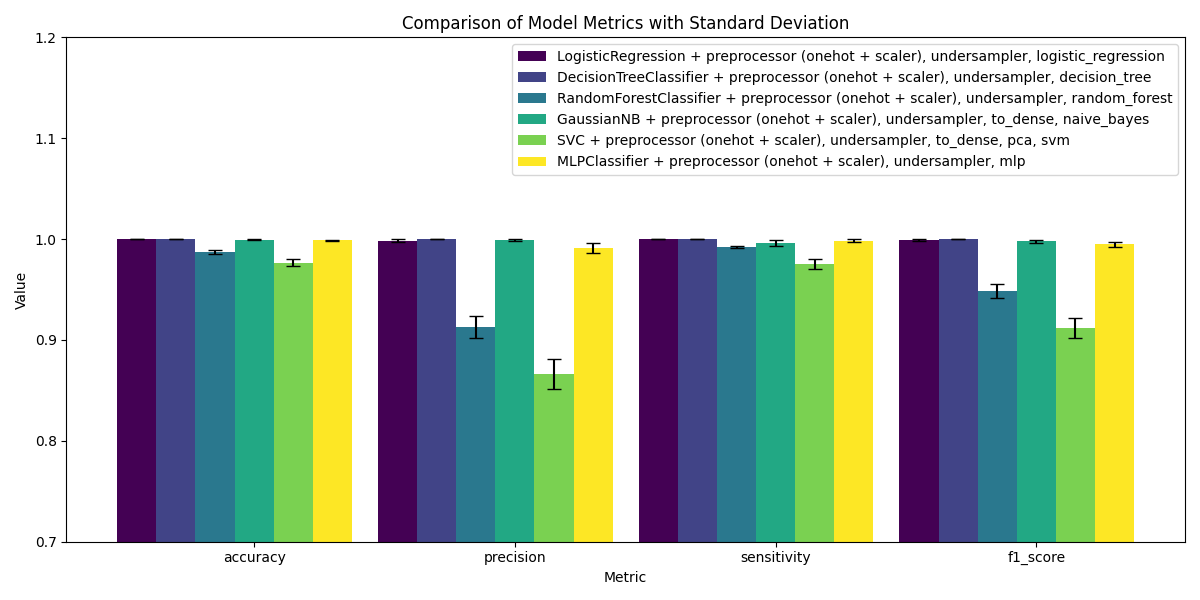
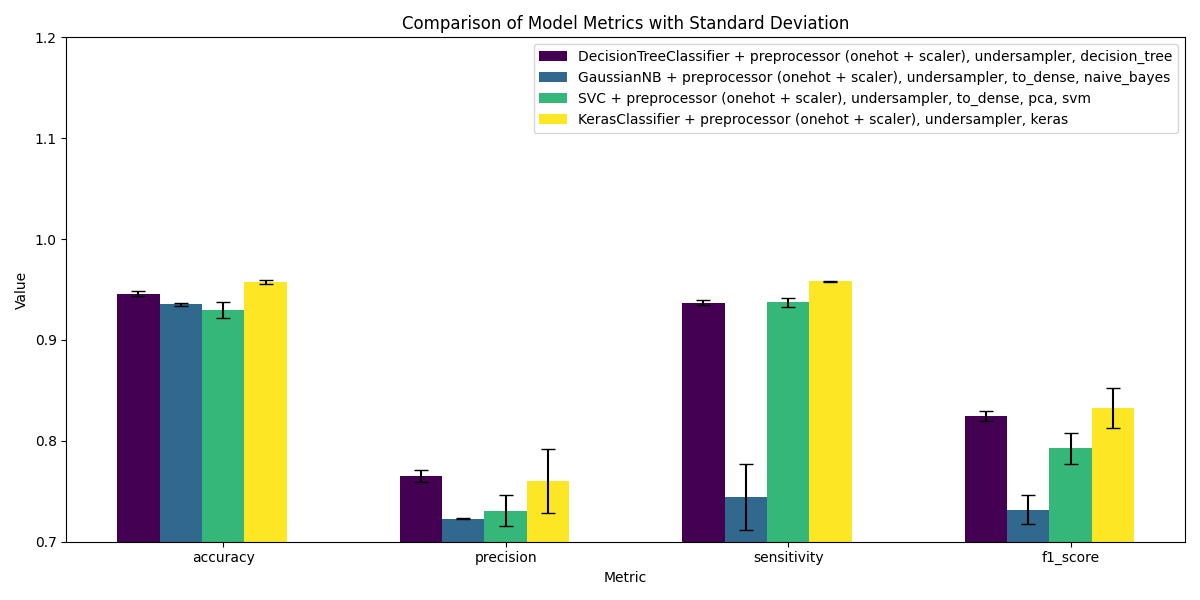
Add Keras to the pipeline -- plot best decision tree

diff --git a/pipelines/pipelines.py b/pipelines/pipelines.py
@@ -1,5 +1,6 @@
 from imblearn.pipeline import Pipeline
 from imblearn.under_sampling import RandomUnderSampler
+from scikeras.wrappers import KerasClassifier
 from sklearn.compose import ColumnTransformer
 from sklearn.decomposition import PCA
 from sklearn.ensemble import RandomForestClassifier
@@ -9,7 +10,8 @@ from sklearn.neural_network import MLPClassifier
 from sklearn.preprocessing import StandardScaler, OneHotEncoder, FunctionTransformer
 from sklearn.svm import SVC
 from sklearn.tree import DecisionTreeClassifier
-
+from tensorflow import keras
+import tensorflow as tf
 from cursos_df import seed_value, X
 
 
@@ -59,8 +61,9 @@ def decision_tree(additional_steps, additional_params={}):
             ("decision_tree", DecisionTreeClassifier(random_state=seed_value)),
         ]),
         "params": {
-            'decision_tree__max_depth': [10, 30],
-            'decision_tree__min_samples_split': [5, 10],
+            'decision_tree__max_depth': [10, 30, 50],
+            'decision_tree__min_samples_split': [5, 10, 30],
+            'decision_tree__min_samples_leaf': [1, 5, 10],
             **additional_params
         }
     }
@@ -115,7 +118,6 @@ def mlp(additional_steps, additional_params={}):
 def svm(additional_steps, additional_params={}):
     return {
         "pipeline": Pipeline(steps=[
-
             *additional_steps,
             ("svm", SVC(random_state=seed_value)),
         ]),
@@ -123,6 +125,33 @@ def svm(additional_steps, additional_params={}):
             'svm__C': [0.1, 1, 10],
             'svm__gamma': ['auto'],
             'svm__kernel': ['linear'],
+            **additional_params
+        }
+    }
+
+
+def get_model(hidden_layer_dim, meta):
+    n_features_in_ = meta["n_features_in_"]
+
+    model = keras.models.Sequential()
+    model.add(keras.layers.Dense(hidden_layer_dim, input_shape=(n_features_in_,), activation='relu'))
+    model.add(keras.layers.Dense(hidden_layer_dim, activation='relu'))
+    model.add(keras.layers.Dense(1, activation='sigmoid'))
+
+    return model
+
+
+def keras_model(additional_steps, additional_params={}):
+    return {
+        "pipeline": Pipeline(steps=[
+            *additional_steps,
+            ("keras", KerasClassifier(get_model, verbose=0)),
+        ]),
+        "params": {
+            "keras__model__hidden_layer_dim": [50, 100, 200],
+            "keras__optimizer": ["adam"],
+            "keras__loss": ["binary_crossentropy"],
+            "keras__epochs": [1, 5, 10, 20],
             **additional_params
         }
     }
@@ -140,11 +169,14 @@ sampler = ("undersampler", RandomUnderSampler(random_state=seed_value))
 pca = [("to_dense", to_dense), ("pca", PCA())]
 pca_params = {'pca__n_components': [15, 22]}
 
+tf.config.set_visible_devices([], 'GPU')
+
 pipelines = [
-    logistic_regression([preprocessor, sampler]),
+    # logistic_regression([preprocessor, sampler]),
     decision_tree([preprocessor, sampler]),
-    random_forest([preprocessor, sampler]),
+    # random_forest([preprocessor, sampler]),
     naive_bayes([preprocessor, sampler, ("to_dense", to_dense)]),
     svm([preprocessor, sampler, *pca], additional_params={**pca_params}),
-    mlp([preprocessor, sampler])
+    # mlp([preprocessor, sampler]),
+    keras_model([preprocessor, sampler])
 ]

diff --git a/pipelines/train_and_predict.py b/pipelines/train_and_predict.py
@@ -1,7 +1,7 @@
 from time import time
 
 import numpy as np
-from sklearn.metrics import confusion_matrix
+from sklearn.metrics import confusion_matrix, f1_score, recall_score, precision_score
 from sklearn.model_selection import GridSearchCV, cross_val_score
 
 
@@ -16,11 +16,23 @@ def train_and_predict(X_train, X_test, Y_train, y_test, pipeline, param_grid, cv
 
     # Previsões e métricas para o melhor modelo
     best_estimator = grid_search.best_estimator_
+
     y_pred = best_estimator.predict(X_test)
 
-    scores_precision = cross_val_score(best_estimator, X_train, Y_train, cv=cv, scoring='precision_macro')
-    scores_recall = cross_val_score(best_estimator, X_train, Y_train, cv=cv, scoring='recall_macro')
-    scores_f1 = cross_val_score(best_estimator, X_train, Y_train, cv=cv, scoring='f1_macro')
+    # Precision
+    precision_scores = cross_val_score(best_estimator, X_train, Y_train, cv=cv, scoring='precision_macro')
+    precision_std = np.std(precision_scores)
+    precision_mean = np.mean(precision_scores)
+
+    # Recall
+    recall_scores = cross_val_score(best_estimator, X_train, Y_train, cv=cv, scoring='recall_macro')
+    recall_std = np.std(recall_scores)
+    recall_mean = np.mean(recall_scores)
+
+    # F1-Score
+    f1_scores = cross_val_score(best_estimator, X_train, Y_train, cv=cv, scoring='f1_macro')
+    f1_std = np.std(f1_scores)
+    f1_mean = np.mean(f1_scores)
 
     # Calculando a especificidade manualmente
     cm = confusion_matrix(y_test, y_pred, labels=['Privada', 'Pública'])
@@ -33,16 +45,16 @@ def train_and_predict(X_train, X_test, Y_train, y_test, pipeline, param_grid, cv
     report_summary = {
         'mean': {
             'accuracy': grid_search.best_score_,
-            'precision': np.mean(scores_precision),
-            'sensitivity': np.mean(scores_recall),
-            'f1_score': np.mean(scores_f1),
+            'precision': precision_mean,
+            'sensitivity': recall_mean,
+            'f1_score': f1_mean,
             # 'specificity': avg_specificity,
         },
         'std': {
             'accuracy': grid_search.cv_results_['std_test_score'][grid_search.best_index_],
-            'precision': np.std(scores_precision),
-            'sensitivity': np.std(scores_recall),
-            'f1_score': np.std(scores_f1),
+            'precision': precision_std,
+            'sensitivity': recall_std,
+            'f1_score': f1_std,
             # 'specificity': avg_specificity,
         }
     }

diff --git a/pipelines/plot.py b/pipelines/plot.py
@@ -1,0 +1,71 @@
+import tempfile
+
+import seaborn as sns
+from keras.src.utils import plot_model
+from matplotlib import pyplot as plt, image as mpimg
+from sklearn.tree import plot_tree
+
+
+def plot_keras_model(model):
+    with tempfile.NamedTemporaryFile(suffix='.png', delete=True) as temp_file:
+        # Use plot_model to save the plot to the temporary file
+        plot_model(model, to_file=temp_file.name, show_shapes=True, show_layer_names=True)
+        img = mpimg.imread(temp_file.name)
+        fig, ax = plt.subplots()
+        ax.axis('off')
+        plt.imshow(img)
+        plt.show()
+
+
+def plot_decision_tree(tree, feature_names):
+    plt.figure(figsize=(10, 10), dpi=650)
+    plot_tree(tree, filled=True, feature_names=feature_names, proportion=True, rounded=True)
+    plt.show()
+
+
+def plot_pair(df, title=None, figsize=(10, 8)):
+    plt.figure(figsize=figsize)
+    plt.title(title)
+    sns.pairplot(data=df)
+    plt.show()
+
+
+def plot_heatmap(df, title=None,  figsize=(10, 8), cmap='coolwarm'):
+    plt.figure(figsize=figsize)
+    plt.title(title)
+    plt.imshow(df, cmap=cmap, interpolation='none')
+    plt.colorbar()
+    plt.xticks(range(len(df)), df.columns, rotation=45)
+    plt.yticks(range(len(df)), df.columns)
+    for i in range(len(df)):
+        for j in range(len(df)):
+            plt.text(j, i, f"{df.iloc[i, j]:.2f}", ha='center', va='center', color='white')
+    plt.show()
+
+
+def plot_table(df, title=None, ):
+    fig, ax = plt.subplots(figsize=(12, 3))
+    plt.title(title)
+    ax.axis('off')
+    table = ax.table(cellText=df.values,
+                     colLabels=df.columns,
+                     rowLabels=df.index,
+                     loc='center',
+                     cellLoc='left')
+    table.scale(1.2, 1.2)
+    header_row_color = '#007BFF'
+    row_colors = ['#F2F2F2', '#FFFFFF']
+
+    for position, cell in table.get_celld().items():
+        row, col = position
+
+        cell.set_edgecolor('white')
+
+        if row == 0 or col == -1:
+            cell.set_facecolor(header_row_color)
+            cell.set_text_props(color='white')
+        else:
+            cell.set_facecolor(row_colors[row % 2])
+            cell.set_text_props(color='black')
+    plt.tight_layout()
+    plt.show()

diff --git a/pipelines/main.py b/pipelines/main.py
@@ -4,6 +4,7 @@ from sklearn.model_selection import StratifiedKFold, train_test_split
 
 from cursos_df import seed_value, X, y
 from pipelines import pipelines
+from plot import plot_decision_tree, plot_keras_model
 from pretty_print import prettify, ascii_as_image, plot_model_metrics
 from train_and_predict import train_and_predict
 
@@ -14,17 +15,29 @@ X_train, X_test, y_train, y_test = train_test_split(X, y, test_size=0.2, random_
 result = []
 
 for pipeline in pipelines:
-    result.append(
-        train_and_predict(
-            X_train=X_train,
-            Y_train=y_train,
-            X_test=X_test,
-            y_test=y_test,
-            cv=StratifiedKFold(n_splits=5, shuffle=True, random_state=seed_value),
-            param_grid=pipeline['params'],
-            pipeline=pipeline['pipeline'],
-        )
+    predicted = train_and_predict(
+        X_train=X_train,
+        Y_train=y_train,
+        X_test=X_test,
+        y_test=y_test,
+        cv=StratifiedKFold(
+            n_splits=2,
+            shuffle=True,
+            random_state=seed_value
+        ),
+        param_grid=pipeline['params'],
+        pipeline=pipeline['pipeline']
     )
+
+    if 'decision_tree' in pipeline['pipeline'].named_steps:
+        feature_names = predicted['best_estimator'].named_steps['preprocessor (onehot + scaler)'].get_feature_names_out()
+        plot_decision_tree(predicted['best_estimator'].named_steps['decision_tree'], feature_names)
+
+    if 'keras' in pipeline['pipeline'].named_steps:
+        keras_classifier = predicted['best_estimator'].named_steps['keras']
+        plot_keras_model(keras_classifier.model_)
+
+    result.append(predicted)
 
 plot_model_metrics(result)
 df = pd.DataFrame(result)

diff --git a/pipelines/cursos_df.py b/pipelines/cursos_df.py
@@ -1,11 +1,45 @@
 import pandas as pd
 
+from plot import plot_heatmap, plot_table, plot_pair
+
 seed_value = 45
 class_name = 'TP_REDE_DEPARA'
 
-df = pd.read_csv('tema01_cursos_2021_ti_sem_gratuito.csv', index_col=0, sep='|')
+df = pd.read_csv('tema01_cursos_2021_ti.csv', index_col=0, sep='|')
 
-# df.drop('IN_GRATUITO_DEPARA', axis=1).to_csv('tema01_cursos_2021_ti_sem_gratuito.csv', sep='|')
+columns = [
+    class_name,
+    'NO_REGIAO',
+    'NO_UF',
+    'IN_CAPITAL_DEPARA',
+    'NO_CURSO_DEPARA',
+    'TP_GRAU_ACADEMICO_DEPARA',
+    'TP_MODALIDADE_ENSINO_DEPARA',
+    'TP_NIVEL_ACADEMICO_DEPARA',
+    'TP_DIMENSAO_DEPARA',
+    'TP_ORGANIZACAO_ACADEMICA_DEPARA',
+    # 'TP_CATEGORIA_ADMINISTRATIVA_DEPARA',
+    'QT_VG_TOTAL',
+    'QT_INSCRITO_TOTAL',
+    'QT_ING',
+    'QT_MAT',
+    'QT_CONC'
+]
+
+df = df[columns]
+
+numeric = [col for col in df.columns if col.startswith('QT_')]
+categorical = [col for col in df.columns if not col.startswith('QT_')]
+
+df[numeric] = df[numeric].astype(int)
+df[categorical] = df[categorical].astype(str)
+
+# pd.set_option('display.max_columns', None)  # This will display all columns
+# pd.set_option('display.expand_frame_repr', False)  # This prevents the DataFrame from being split across multiple lines
+# print(df.head)
+# plot_table(df.describe().round(3), 'Cursos de TI -- descrição')
+# plot_heatmap(df[numeric].corr(), 'Cursos  de TI -- matriz de correlação')
+# plot_pair(df.describe().round(3), 'Cursos de TI -- pair plot')
 
 X = df.drop(class_name, axis=1)
 y = df[class_name]
